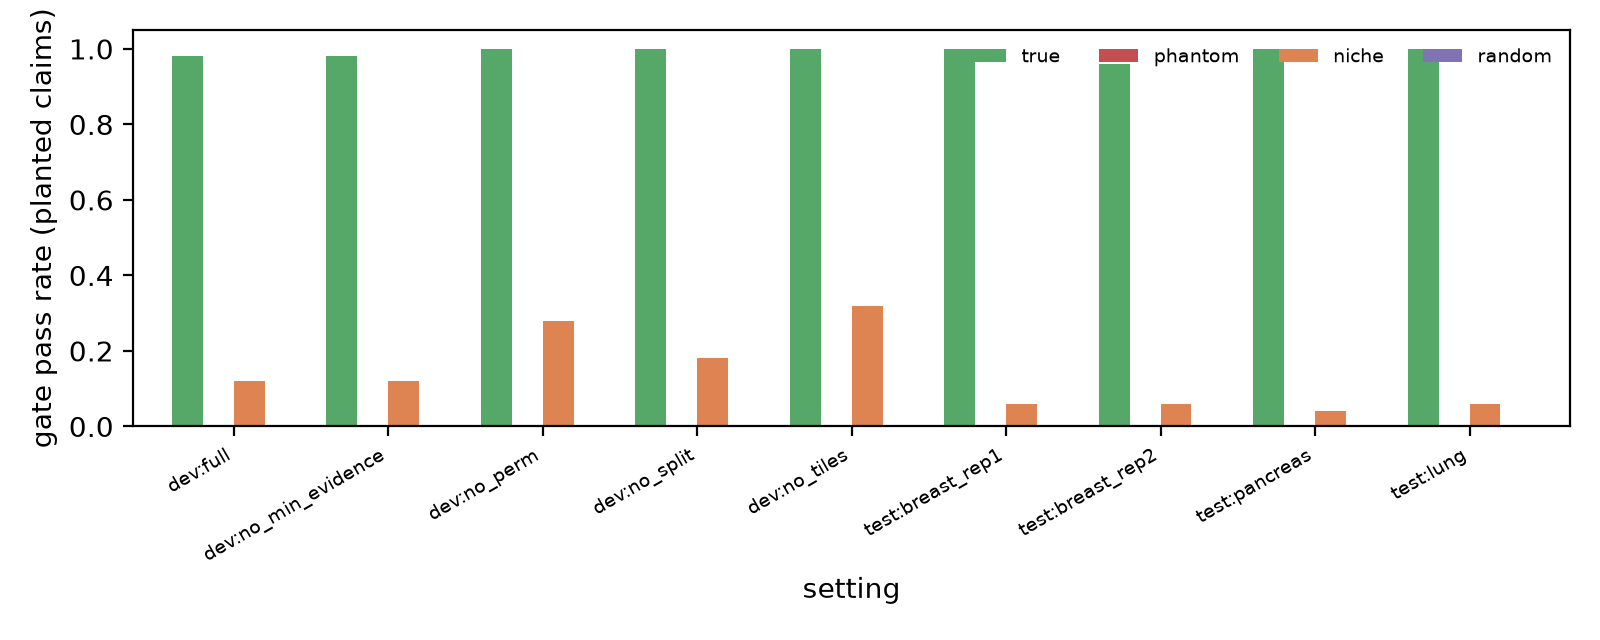
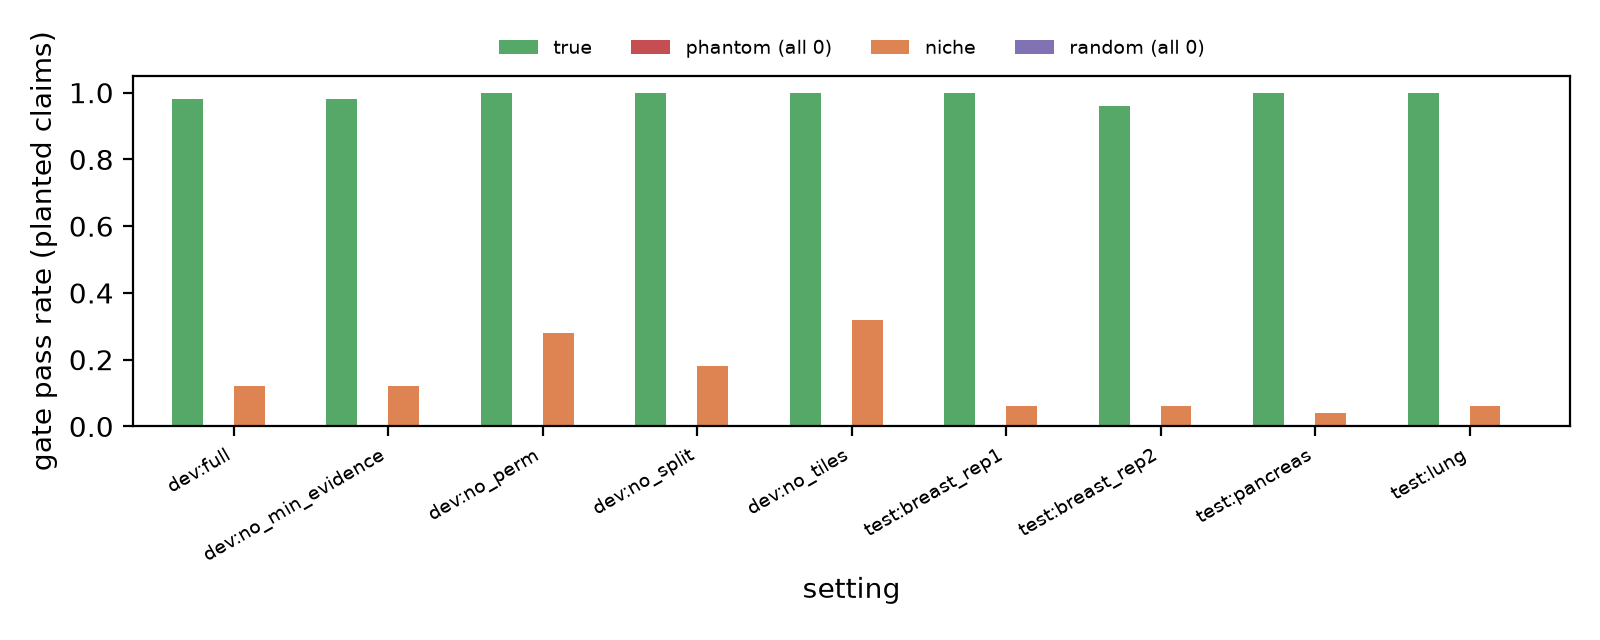
Figure legend fix

diff --git a/scripts/make_report.py b/scripts/make_report.py
@@ -131,7 +131,10 @@ if pp:
     P.to_csv("results/tables/planted_pass_rates.csv")
     fig, ax = plt.subplots(figsize=(8, 3.2))
     P.plot.bar(ax=ax, color=["#55a868", "#c44e52", "#dd8452", "#8172b3"], width=0.8)
-    ax.set_ylabel("gate pass rate (planted claims)"); ax.set_ylim(0, 1.05); ax.legend(fontsize=7, frameon=False, ncol=4)
+    ax.set_ylabel("gate pass rate (planted claims)"); ax.set_ylim(0, 1.05)
+    ax.legend(["true", "phantom (all 0)" if (P.phantom == 0).all() else "phantom", "niche",
+               "random (all 0)" if (P.random == 0).all() else "random"],
+              fontsize=7, frameon=False, ncol=4, loc="lower center", bbox_to_anchor=(0.5, 1.0))
     ax.set_xticklabels(ax.get_xticklabels(), rotation=30, ha="right", fontsize=7); fig.tight_layout()
     fig.savefig("figures/fig_planted_pass_rates.png", dpi=200); plt.close(fig)
 
